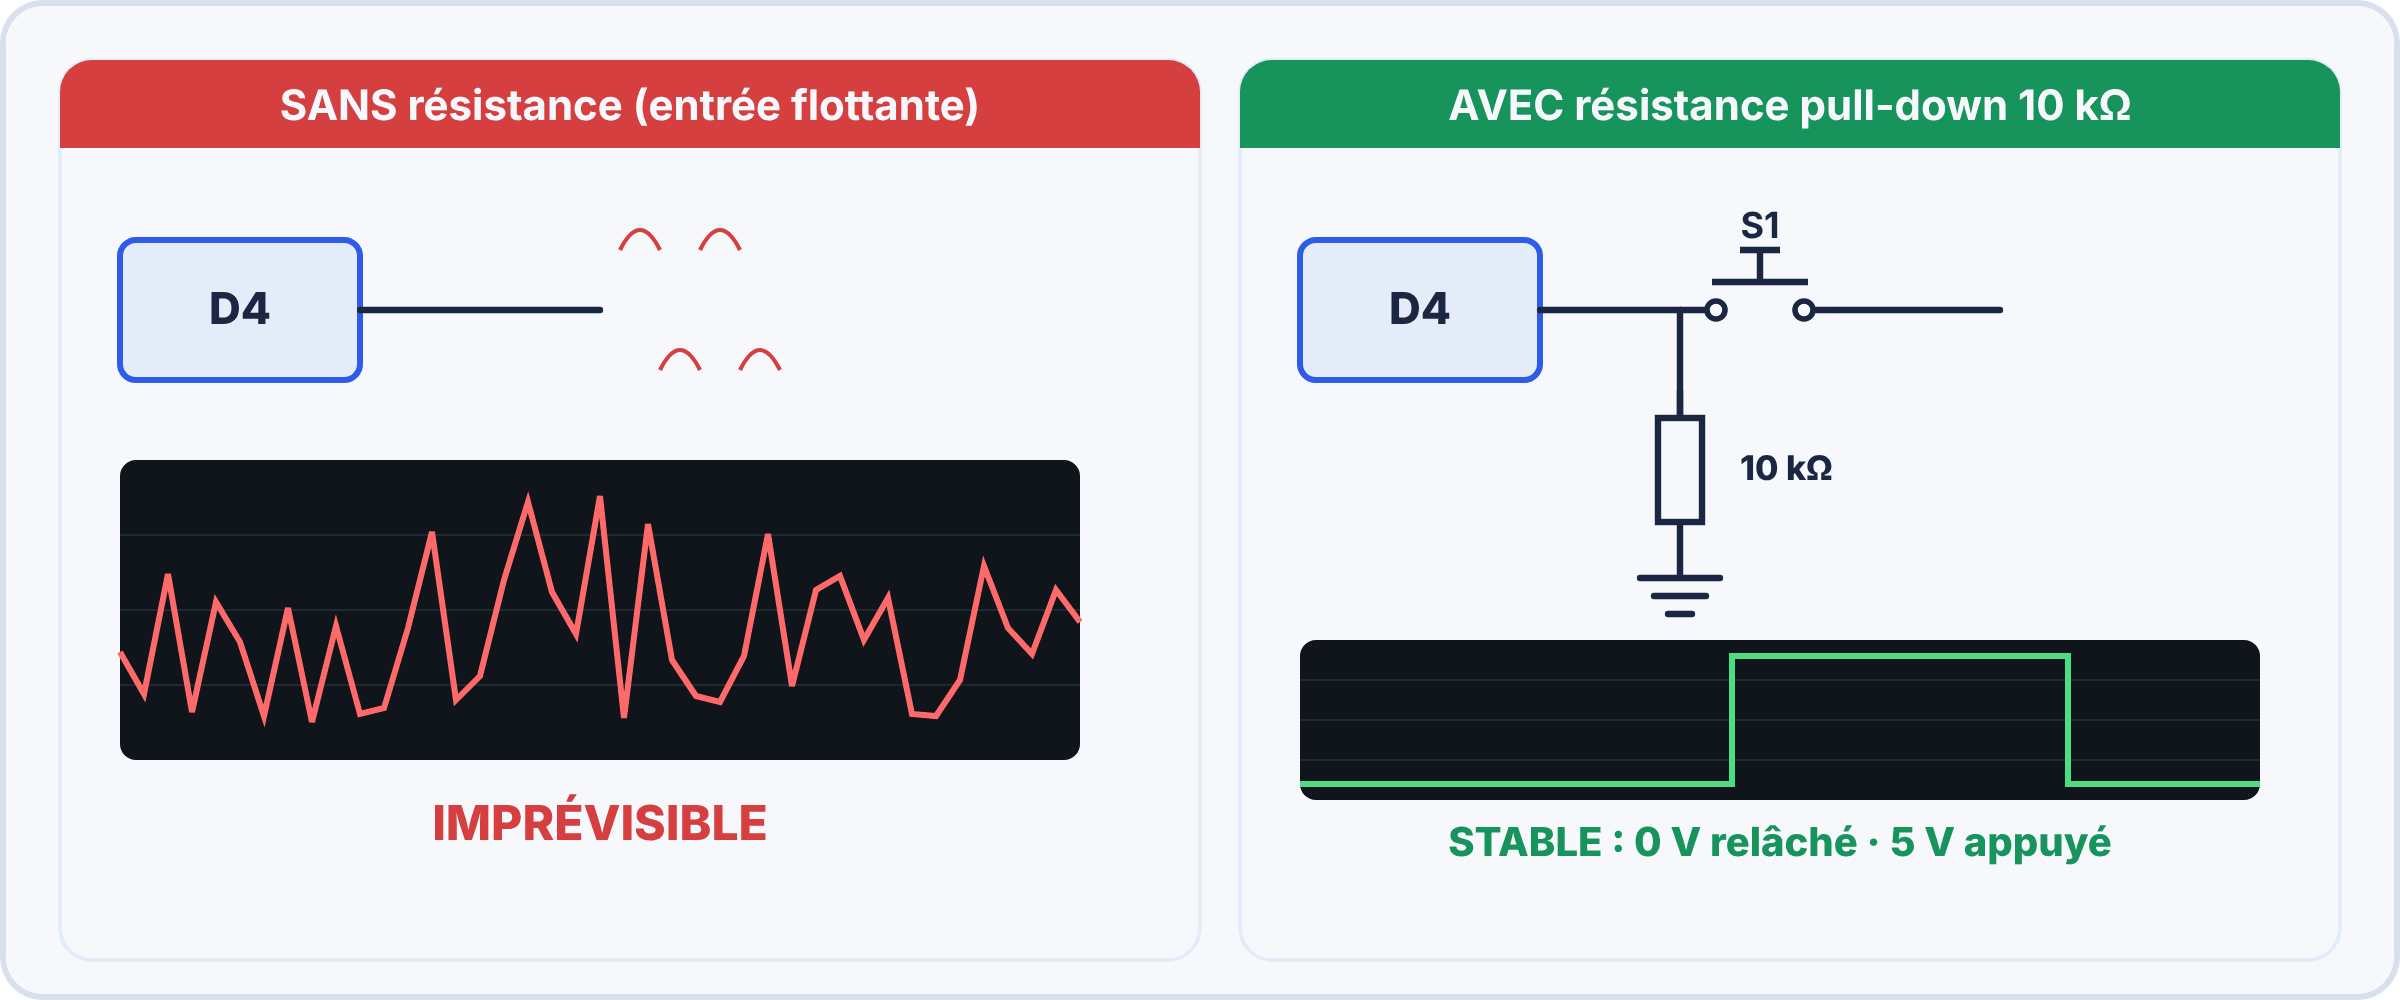
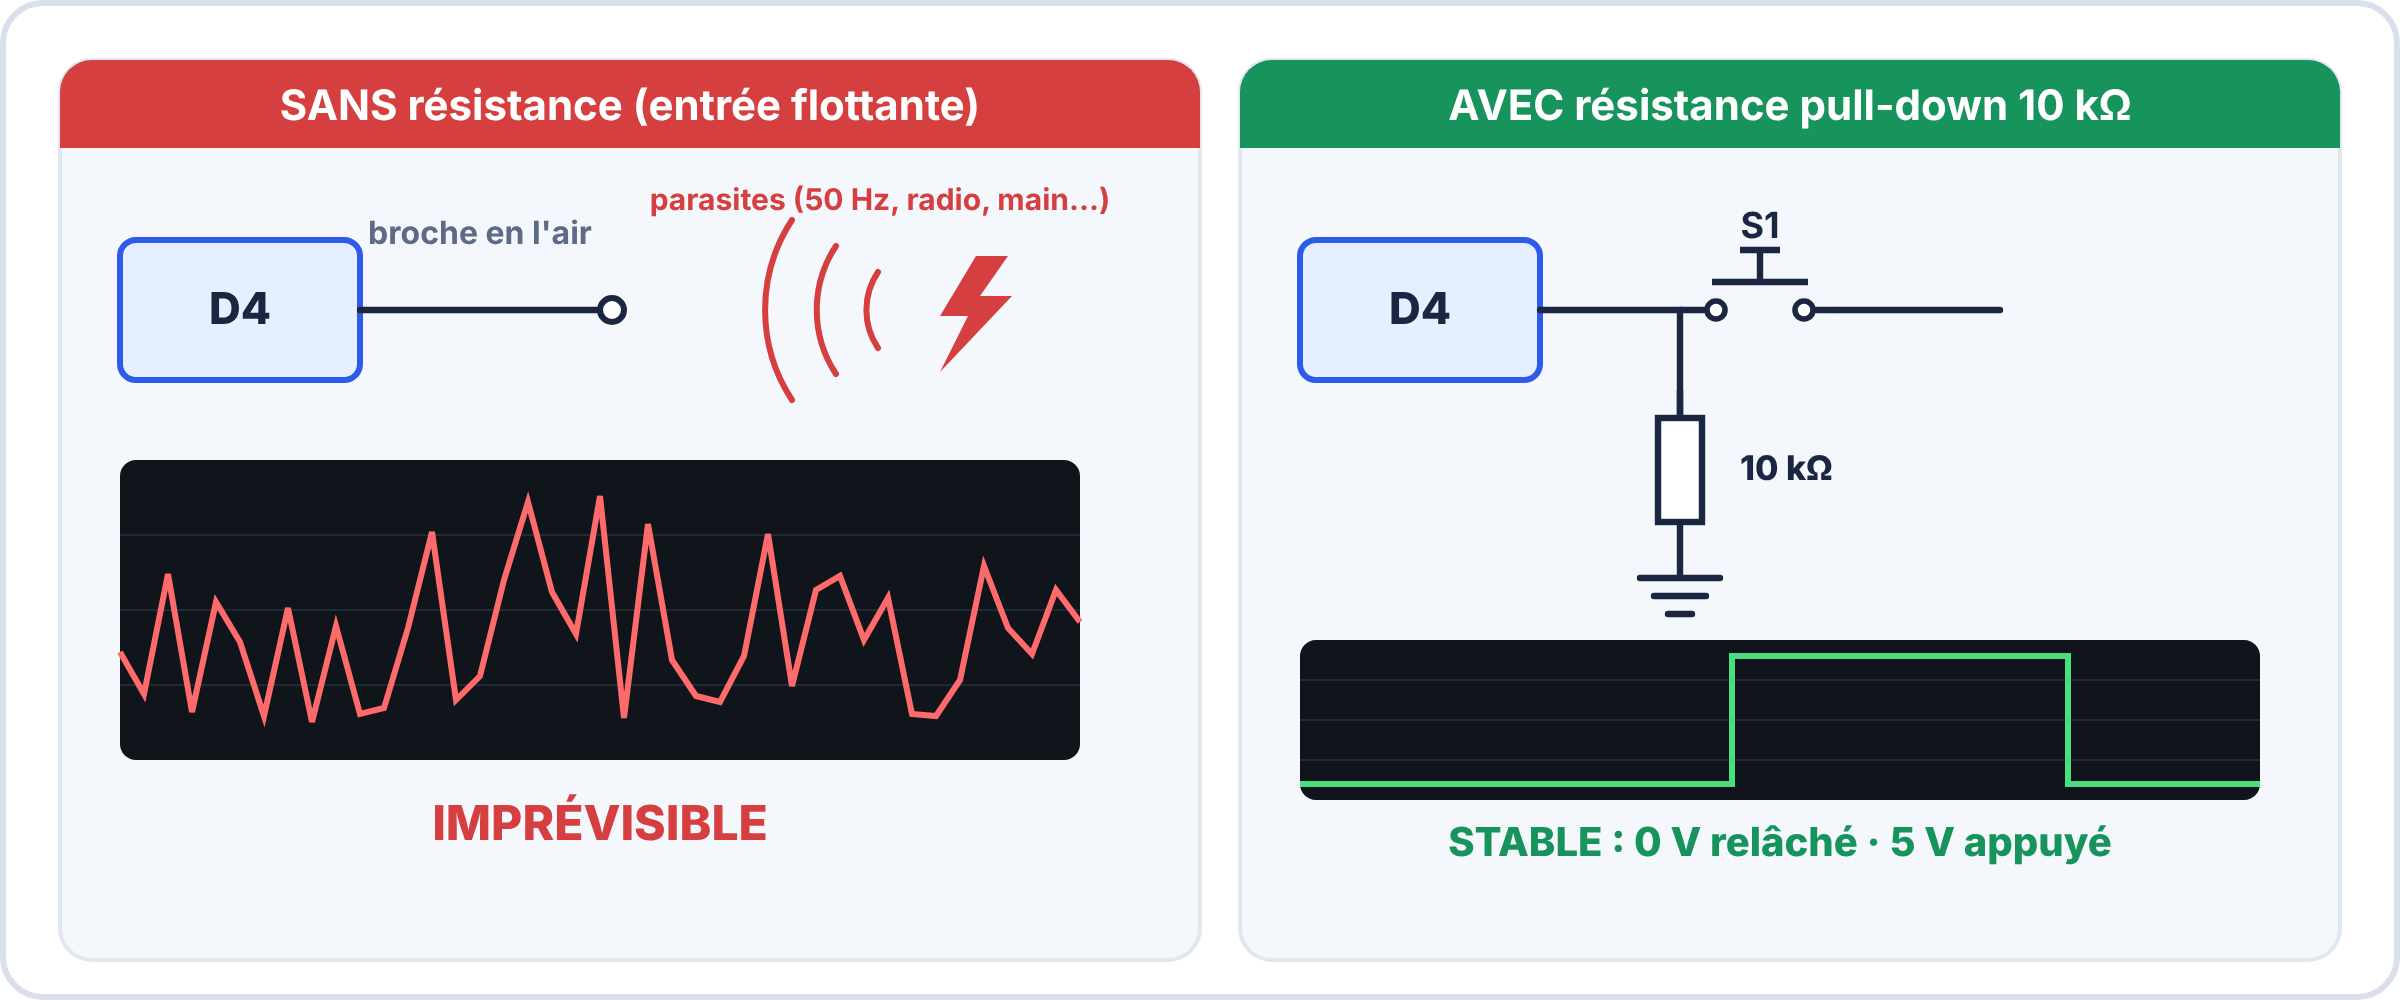
Entrée flottante : broche en l'air, parasites rayonnés (éclair + ondes) au lieu d'arcs isolés
Claude-Session: https://claude.ai/code/session_018Ln2Xo12prChdSPrkdSn9D

Changed region(s): [[0.1562, 0.186, 0.4688, 0.248], [0.375, 0.248, 0.4375, 0.372], [0.2812, 0.248, 0.3438, 0.372]]

diff --git a/outils/illustrations-e2/figs_sec7.py b/outils/illustrations-e2/figs_sec7.py
@@ -98,7 +98,9 @@ def f_flottant():
     import random
     rnd = random.Random(7)
     o = duo(0, 0, "SANS résistance (entrée flottante)", "AVEC résistance pull-down 10 kΩ", RED, GREEN, h=450)
-    o += f'<rect x="60" y="120" width="120" height="70" rx="8" fill="#e6efff" stroke="{BLUE}" stroke-width="3"/>' + T(120, 162, "D4", 22, 800, INK) + s_wire([(180, 155), (300, 155)]) + ''.join(f'<path d="M{310+i*20},{125+(i%2)*60} q10,-20 20,0" stroke="{RED}" stroke-width="2" fill="none"/>' for i in range(4))
+    o += f'<rect x="60" y="120" width="120" height="70" rx="8" fill="#e6efff" stroke="{BLUE}" stroke-width="3"/>' + T(120, 162, "D4", 22, 800, INK) + s_wire([(180, 155), (300, 155)]) + f'<circle cx="306" cy="155" r="6" fill="#fff" stroke="{INK}" stroke-width="3"/>' + T(240, 122, "broche en l'air", 16, 700, MUTED) \
+        + ''.join(f'<path d="M{470-r*0.9:.0f},{155-r*0.55:.0f} A{r},{r} 0 0 0 {470-r*0.9:.0f},{155+r*0.55:.0f}" stroke="{RED}" stroke-width="3" fill="none" stroke-linecap="round"/>' for r in (34, 58, 82)) \
+        + f'<path d="M488,128 L470,158 L484,158 L470,186 L506,148 L490,148 L504,128 Z" fill="{RED}"/>' + T(440, 105, "parasites (50 Hz, radio, main…)", 15, 700, RED)
     o += scope_(60, 230, 480, 150, [(i / 40, rnd.random()) for i in range(41)], "#ff6b6b") + T(300, 420, "IMPRÉVISIBLE", 24, 800, RED)
     o += f'<rect x="650" y="120" width="120" height="70" rx="8" fill="#e6efff" stroke="{BLUE}" stroke-width="3"/>' + T(710, 162, "D4", 22, 800, INK) + hrun(155, 770, 1000, [(880, "BP", "S1", {})]) + s_wire([(840, 155), (840, 215)]) + sym("R", 840, 235, rot=90) + gnd(840, 275) + T(870, 240, "10 kΩ", 17, 800, INK, "start")
     pts = [(0, 0), (.45, 0), (.45, 1), (.8, 1), (.8, 0), (1, 0)]
